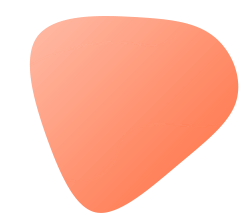
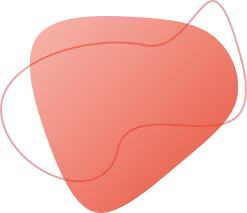
feat:change forms color
se cambio el color de las formas a rojo aunque por el degradado y
transparencia aun se ven medio naranjas

diff --git a/ienti-manwere-consultant/assets/php/mail.php b/ienti-manwere-consultant/assets/php/mail.php
@@ -1,0 +1,390 @@
+<?php
+ini_set('display_errors', 1);
+ini_set('display_startup_errors', 1);
+error_reporting(E_ALL);
+
+if ($_SERVER["REQUEST_METHOD"] == "POST") {
+  // Recoger y sanitizar los datos
+  $nombre    = htmlspecialchars(trim($_POST['nombre']));
+  $email     = filter_var($_POST['email'], FILTER_SANITIZE_EMAIL);
+  $telefono  = htmlspecialchars(trim($_POST['telefono']));
+  $mensaje   = htmlspecialchars(trim($_POST['mensaje']));
+
+  // Dirección de correo destino
+  $destinatario = "ventas@ienti.com.mx"; // Cambia esta dirección
+
+  // Asunto y cuerpo del mensaje
+  $asunto = "Solicitud De Consultoria de $nombre";
+  $cuerpo  = "Nombre: $nombre\n";
+  $cuerpo .= "Email: $email\n";
+  $cuerpo .= "Teléfono: $telefono\n\n";
+  $cuerpo .= "Mensaje:\n$mensaje";
+
+  // Cabeceras del correo
+  $headers  = "From: $email";
+
+  // Enviar el correo y definir mensaje de respuesta
+  if (mail($destinatario, $asunto, $cuerpo, $headers)) {
+    $mensajeRespuesta = "¡Gracias por contactarnos, $nombre! Tu mensaje ha sido enviado correctamente.";
+  } else {
+    $mensajeRespuesta = "Lo sentimos, ocurrió un error al enviar tu mensaje. Por favor, intenta nuevamente.";
+  }
+} else {
+  $mensajeRespuesta = "Acceso no válido.";
+}
+?>
+
+<!DOCTYPE HTML>
+<html lang="es-ES">
+
+<head>
+  <meta charset="UTF-8">
+  <meta http-equiv="x-ua-compatible" content="ie=edge">
+  <title>ienti & manwere&circledR;</title>
+  <meta name="description" content="">
+  <meta name="viewport" content="width=device-width, initial-scale=1">
+  <!-- Favicon -->
+  <link rel="shortcut icon" type="image/x-ico" href="../images/icon.ico">
+  <!-- bootstrap CSS -->
+  <link rel="stylesheet" href="../css/bootstrap.min.css" type="text/css" media="all" />
+  <!-- carousel CSS -->
+  <link rel="stylesheet" href="../css/owl.carousel.min.css" type="text/css" media="all" />
+  <!-- animate CSS -->
+  <link rel="stylesheet" href="../css/animate.css" type="text/css" media="all" />
+  <!-- animated-text CSS -->
+  <link rel="stylesheet" href="../css/animated-text.css" type="text/css" media="all" />
+  <!-- font-awesome CSS -->
+  <link rel="stylesheet" href="../css/all.min.css" type="text/css" media="all" />
+  <!-- font-flaticon CSS -->
+  <link rel="stylesheet" href="../css/flaticon.css" type="text/css" media="all" />
+  <!-- theme-default CSS -->
+  <link rel="stylesheet" href="../css/theme-default.css" type="text/css" media="all" />
+  <!-- meanmenu CSS -->
+  <link rel="stylesheet" href="../css/meanmenu.min.css" type="text/css" media="all" />
+  <!-- Main Style CSS -->
+  <link rel="stylesheet" href="../../style.css" type="text/css" media="all" />
+  <!-- transitions CSS -->
+  <link rel="stylesheet" href="../css/owl.transitions.css" type="text/css" media="all" />
+  <!-- venobox CSS -->
+  <link rel="stylesheet" href="../../venobox/venobox.css" type="text/css" media="all" />
+  <!-- responsive CSS -->
+  <link rel="stylesheet" href="../css/responsive.css" type="text/css" media="all" />
+  <!-- modernizr js -->
+  <script src="../js/vendor/modernizr-3.5.0.min.js"></script>
+  <!-- bootstrap icons -->
+  <link rel="stylesheet" href="https://cdn.jsdelivr.net/npm/bootstrap-icons@1.9.1/font/bootstrap-icons.css">
+</head>
+
+<body>
+
+  <!-- Loder Start -->
+  <div class="loader-wrapper">
+    <div class="loader"></div>
+    <div class="loder-section left-section"></div>
+    <div class="loder-section right-section"></div>
+  </div>
+  <!-- Loder End -->
+
+  <!--==================================================-->
+  <!-- Start itsoft Main Menu Area -->
+  <!--==================================================-->
+  <div id="sticky-header" class="itsoft_nav_manu">
+    <div class="container">
+      <div class="row align-items-center">
+        <div class="col-lg-3">
+          <div class="logo">
+            <a class="logo_img" href="../../index.html" title="ienti&manwere&circledR;">
+              <img src="../images/logo.png" alt="logo" />
+            </a>
+            <a class="main_sticky" href="index.html" title="ienti&manwere&circledR;">
+              <img src="../images/logo2.png" alt="logo" />
+            </a>
+          </div>
+        </div>
+        <div class="col-lg-9 pl-0 pr-0">
+          <nav class="itsoft_menu">
+            <ul class="nav_scroll">
+              <li><a href="../../index.html">Home </a>
+              </li>
+              <li><a href="#">Empresa <span><i class="fas fa-angle-down"></i></span></a>
+                <ul class="sub-menu">
+                  <li><a href="../../sobre-nosotros.html"> Sobre Nosotros </a></li>
+                  <li><a href="../../clientes.html"> Nuestros Clientes</a></li>
+                  <li><a href="../../aviso-privacidad.html"> Aviso de Privacidad</a></li>
+                </ul>
+              </li>
+              <li><a href="#">Aplicaciones <span><i class="fas fa-angle-down"></i></span></a>
+                <ul class="sub-menu">
+                  <li><a href="../../caf.html"> CAF </a></li>
+                  <li><a href="../../keydoc.html"> Keydoc </a></li>
+                  <li><a href="../../xenahosting.html"> xenahosting </a></li>
+                </ul>
+              </li>
+              <li><a href="#">Normatividad <span><i class="fas fa-angle-down"></i></span></a>
+                <ul class="sub-menu">
+                  <li><a href="../../conciliacion.html"> Conciliacion</a></li>
+                  <li><a href="../../depreciacion.html"> Depreciacion</a></li>
+                  <li><a href="../../etiquetas.html"> Etiquetas QR</a></li>
+                  <li><a href="../../evidencias.html"> Evidencias</a></li>
+                  <li><a href="../../inmuebles.html"> Inmuebles</a></li>
+                  <li><a href="../../movil.html"> Movil</a></li>
+                  <li><a href="../../transparencia.html"> Transparencia</a></li>
+                </ul>
+              </li>
+              <li><a href="#">Servicios <span><i class="fas fa-angle-down"></i></span></a>
+                <ul class="sub-menu">
+                  <li><a href="../../aplicaciones.html"> Aplicaciones</a></li>
+                  <li><a href="../../soporte.html"> Soporte</a></li>
+                  <li><a href="../../capacitacion.html"> Capacitación</a></li>
+                  <li><a href="../../acompanamiento.html"> Acompañamiento</a></li>
+                </ul>
+              </li>
+              <li><a href="../../contacto.html">Contacto</a></li>
+            </ul>
+          </nav>
+        </div>
+      </div>
+    </div>
+  </div>
+
+  <div class="mobile-menu-area d-sm-block d-md-block d-lg-none ">
+    <div class="mobile-menu">
+      <nav class="itsoft_menu">
+        <ul class="nav_scroll">
+          <li><a href="../../index.html">Home </a>
+          </li>
+          <li><a href="../../index.html">Empresa <span><i class="fas fa-angle-down"></i></span></a>
+            <ul class="sub-menu">
+              <li><a href="../../sobre-nosotros.html"> Sobre Nosotros </a></li>
+              <li><a href="../../clientes.html"> Nuestros Clientes</a></li>
+              <li><a href="../../aviso-privacidad.html"> Aviso de Privacidad</a></li>
+            </ul>
+          </li>
+          <li><a href="#">Aplicaciones <span><i class="fas fa-angle-down"></i></span></a>
+            <ul class="sub-menu">
+              <li><a href="../../caf.html"> CAF </a></li>
+              <li><a href="../../keydoc.html"> Keydoc </a></li>
+              <li><a href="../../xenahosting.html"> xenahosting </a></li>
+            </ul>
+          </li>
+          <li><a href="#">Normatividad <span><i class="fas fa-angle-down"></i></span></a>
+            <ul class="sub-menu">
+              <li><a href="../../conciliacion.html"> Conciliacion</a></li>
+              <li><a href="../../depreciacion.html"> Depreciacion</a></li>
+              <li><a href="../../etiquetas.html"> Etiquetas QR</a></li>
+              <li><a href="../../evicencias.html"> Evidencias</a></li>
+              <li><a href="../../inmuebles.html"> Inmuebles</a></li>
+              <li><a href="../../movil.html"> Movil</a></li>
+              <li><a href="../../transparencia.html"> Transparencia</a></li>
+            </ul>
+          </li>
+          <li><a href="#">Servicios <span><i class="fas fa-angle-down"></i></span></a>
+            <ul class="sub-menu">
+              <li><a href="../../aplicaciones.html"> Aplicaciones</a></li>
+              <li><a href="../../soporte.html"> Soporte</a></li>
+              <li><a href="../../capacitacion.html"> Capacitación</a></li>
+              <li><a href="../../acompanamiento.html"> Acompañamiento</a></li>
+            </ul>
+          </li>
+          <li><a href="../../contacto.html">Contacto</a></li>
+        </ul>
+      </nav>
+    </div>
+  </div>
+  <!--==================================================-->
+  <!-- End itsoft Main Menu Area -->
+  <!--==================================================-->
+
+  <!--==================================================-->
+  <!-----Start Header Slider Section ----->
+  <!--===================================================-->
+
+  <div class="breadcumb-area d-flex align-items-center">
+    <div class="container">
+      <div class="row d-flex align-items-center">
+        <div class="col-lg-12">
+          <div class="breadcumb-content">
+            <h1> Trabajemos Juntos</h1>
+            <ul>
+              <li><a href="../../index.html">Home</a></li>
+              <li> Trabajemos Juntos</li>
+            </ul>
+          </div>
+        </div>
+        <div class="britcam-shape">
+          <div class="breadcumb-content upp">
+            <ul>
+              <li><a href="../../index.html">Home</a></li>
+              <li> Trabajemos Juntos</li>
+            </ul>
+          </div>
+        </div>
+      </div>
+    </div>
+  </div>
+
+  <!--==================================================-->
+  <!-----Start Header Slider Section ----->
+  <!--===================================================-->
+  <div class="case-study-details">
+    <div class="container">
+      <div class="case-study-intro">
+        <div class="row align-items-center">
+          <div class="csd-info">
+            <div class="csd-title pt-30">
+              <h2>
+                <?php echo $mensajeRespuesta; ?>
+              </h2>
+              <div class="about-button">
+                <a href="../../contacto.html"> Regresar A Contacto <i class="bi bi-arrow-left-circle-fill"></i> </a>
+              </div>
+            </div>
+          </div>
+        </div>
+      </div>
+    </div>
+  </div>
+  <!--==================================================-->
+  <!-- Start itsoft Footer Middle Area -->
+  <!--==================================================-->
+  <div class="footer-middle">
+    <div class="container">
+      <div class="row footer-bg">
+        <div class="col-lg-4 col-md-6 pl-0">
+          <div class="widget widgets-company-info">
+            <div class="company-info-desc pr-2">
+              <h4 class="widget-title"> Nuestra Oficina </h4>
+              <p>
+                CINTERMEX Avenida Fundidora 501 <br>
+                Local 129 C <br>
+                Colonia Obrera <br>
+                Monterrey Nuebo León <br>
+                CP 64010 <br>
+                Tel. 817 7700 119 <br>
+              </p>
+            </div>
+            <div class="follow-company-icon">
+              <a class="social-icon-color" href="https://www.facebook.com/ientimanwere"> <i class="bi bi-facebook"></i>
+              </a>
+              <a class="social-icon-color2" href="https://www.linkedin.com/in/raymundo-pav%C3%B3n-le%C3%B3n-6a3058151/">
+                <i class="bi bi-linkedin"> </i> </a>
+              <a class="social-icon-color1" href="https://x.com/ienti_ti"> <i class="fa-brands fa-x-twitter"></i> </a>
+              <a class="social-icon-color3" href="https://www.youtube.com/user/ientiConsultoria"> <i
+                  class="bi bi-youtube"></i> </a>
+            </div>
+          </div>
+        </div>
+        <div class="col-lg-2 col-md-6">
+          <div class="widget widget-nav-menu">
+            <h4 class="widget-title">Empresa</h4>
+            <div class="menu-quick-link-content">
+              <ul class="footer-menu">
+                <li><a href="https://ienti.com.mx/AssetWise/view/principal.php"> Base de Conocimiento </a></li>
+                <li><a href="https://ienti.com.mx:2096/"> Web Mail </a></li>
+                <li><a href="aviso-privacidad.html"> Aviso de Privacidad </a></li>
+              </ul>
+            </div>
+          </div>
+        </div>
+        <div class="col-lg-3 col-md-6 pl-20">
+          <div class="widget widget-nav-menu">
+            <h4 class="widget-title"> Paginas </h4>
+            <div class="menu-quick-link-content">
+              <ul class="footer-menu">
+                <li><a href="../../sobre-nosotros.html"> Sobre Nosotros </a></li>
+                <li><a href="../../nuestros-servicios.html"> Nuestros Servicios </a></li>
+                <li><a href="../../nuestros-productos.html"> Nuestros Productos </a></li>
+                <li><a href="../../nuestras-normativas.html"> Nomativas </a></li>
+              </ul>
+            </div>
+          </div>
+        </div>
+        <div class="foorer-shape">
+          <div class="footer-thumb">
+            <img src="../images/resource/red-dot.png" alt="">
+          </div>
+          <div class="footer-thumb1 bounce-animate2">
+            <img src="../images/resource/all-shape.png" alt="">
+          </div>
+        </div>
+      </div>
+    </div>
+    <div class="footer-bottom-area d-flex align-items-center">
+      <div class="container">
+        <div class="row d-flex align-items-center">
+          <div class="col-lg-6 col-md-6">
+            <div class="itsoft-logo">
+              <a class="logo_thumb" href="../../index.html" title="ienti & manwere logo">
+                <img src="../images/logo.png" alt="" />
+              </a>
+            </div>
+          </div>
+          <div class="col-lg-6 col-md-6">
+            <div class="footer-bottom-content">
+              <div class="footer-bottom-content-copy">
+                <p>Copyright © 2025 <span>Ienti & manwere&circledR;</span> all rights reserved.</p>
+              </div>
+            </div>
+          </div>
+        </div>
+      </div>
+    </div>
+  </div>
+  <!--==================================================-->
+  <!-- End itsoft Footer Middle Area -->
+  <!--==================================================-->
+
+  <!--==================================================-->
+  <!-- Start scrollup section Area -->
+  <!--==================================================-->
+  <!-- scrollup section -->
+  <div class="scroll-area">
+    <div class="top-wrap">
+      <div class="go-top-btn-wraper">
+        <div class="go-top go-top-button">
+          <i class="fas fa-arrow-up"></i>
+          <i class="fas fa-arrow-up"></i>
+        </div>
+      </div>
+    </div>
+  </div>
+  <!--==================================================-->
+  <!-- Start scrollup section Area -->
+  <!--==================================================-->
+
+  <!-- jquery js -->
+  <script src="../js/vendor/jquery-3.2.1.min.js"></script>
+  <!-- bootstrap js -->
+  <script src="../js/bootstrap.min.js"></script>
+  <!-- carousel js -->
+  <script src="../js/owl.carousel.min.js"></script>
+  <!-- counterup js -->
+  <script src="../js/jquery.counterup.min.js"></script>
+  <!-- waypoints js -->
+  <script src="../js/waypoints.min.js"></script>
+  <!-- wow js -->
+  <script src="../js/wow.js"></script>
+  <!-- imagesloaded js -->
+  <script src="../js/imagesloaded.pkgd.min.js"></script>
+  <!-- venobox js -->
+  <script src="../../venobox/venobox.js"></script>
+  <!-- ajax mail js -->
+  <script src="../js/ajax-mail.js"></script>
+  <!--  animated-text js -->
+  <script src="../js/animated-text.js"></script>
+  <!-- venobox min js -->
+  <script src="../../venobox/venobox.min.js"></script>
+  <!-- isotope js -->
+  <script src="../js/isotope.pkgd.min.js"></script>
+  <!-- jquery meanmenu js -->
+  <script src="../js/jquery.meanmenu.js"></script>
+  <script src="../js/popper.min.js"></script>
+  <!-- jquery scrollup js -->
+  <script src="../js/jquery.scrollUp.js"></script>
+  <!-- theme js -->
+  <script src="../js/theme.js"></script>
+  <!-- barfiller -->
+  <script src="../js/jquery.barfiller.js"></script>
+</body>
+
+</html>
